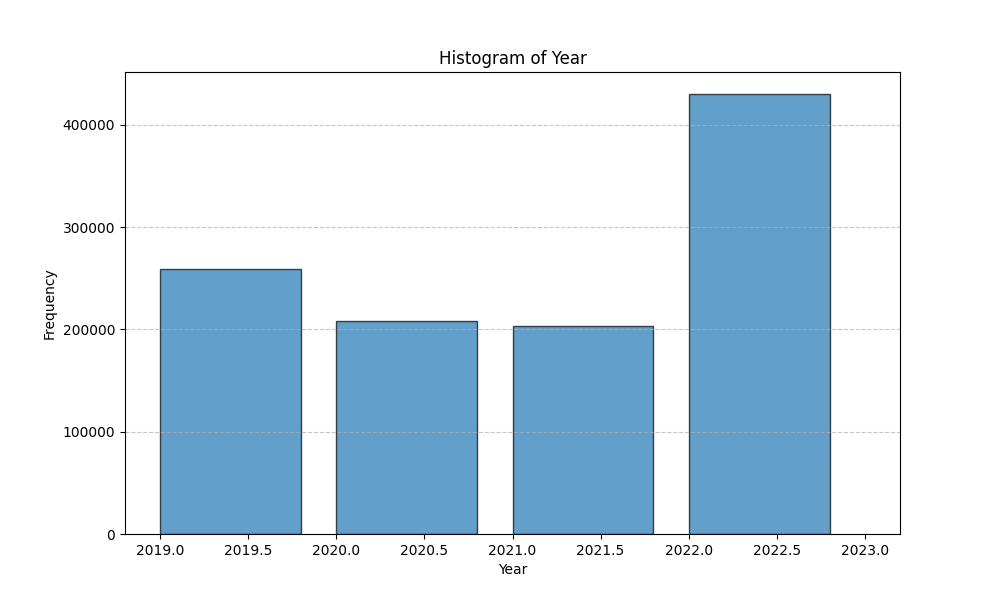
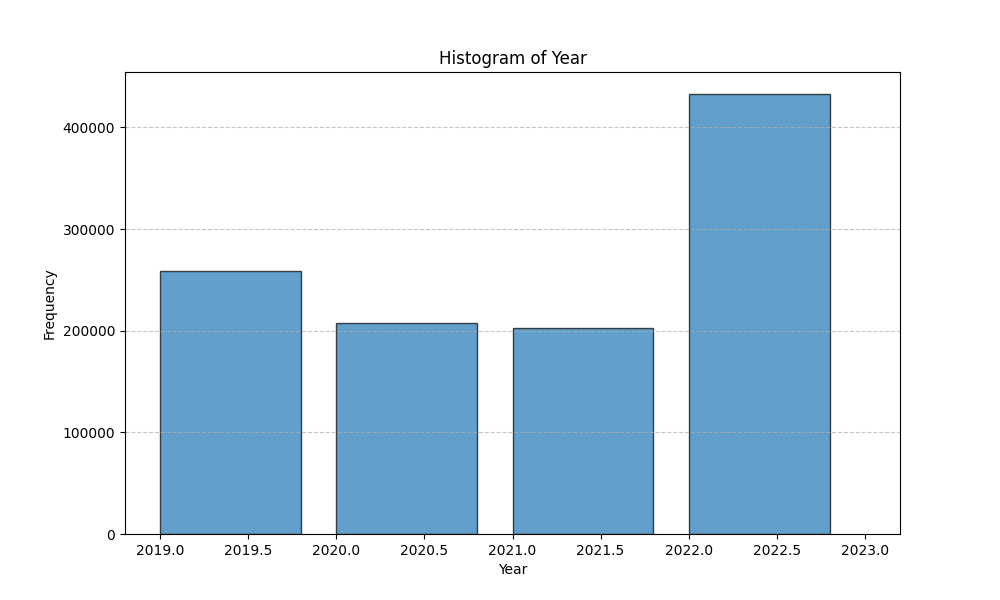
Added project_exploration in detailed

diff --git a/wf_dataprocessing.py b/wf_dataprocessing.py
@@ -3,7 +3,13 @@ import hashlib
 
 
 def preprocess(inputfile):
-    
+    '''Preprocess a CSV file containing crime data, including filtering, cleaning, and saving the result.
+
+    Parameters:
+    inputfile (str): The path to the input CSV file containing crime data.
+
+    Returns:
+    None'''
 
     #READING csv file using pandas
     df=pd.read_csv(inputfile) 
@@ -15,13 +21,13 @@ def preprocess(inputfile):
 
     # Convert the "Date" column to datetime
     df['Date'] = pd.to_datetime(df['Date'])
-    #print(len(df))
+    print("No of records before preprocessing",len(df))
 
     # Filter data for years after 2019
     df = df[df['Date'].dt.year >= 2019]
 
     #to know number of records(data)
-    #print(len(df))
+    
 
     #to show number of null values in our dataset
     #print(df.isnull().sum())
@@ -32,7 +38,7 @@ def preprocess(inputfile):
 
     #without coordinates we cannot analize the data so removing those lines of data
     df = df.dropna(subset=['X Coordinate','Ward','Community Area'])
-
+    print("No of records after preprocessing",len(df))
     # print(len(df))
     # print(df.isnull().sum())
     # Save the preprocessed data to a new CSV file

diff --git a/wf_visualization.py b/wf_visualization.py
@@ -6,6 +6,14 @@ import numpy as np
 
 
 def visualization(processed_file):
+    '''Generate various visualizations and statistics from a processed CSV file containing crime data.
+
+    Parameters:
+    processed_file (str): The path to the processed CSV file.
+
+    Returns:
+    None'''
+    
     data=pd.read_csv(processed_file)
 
     #summary file content
@@ -99,7 +107,7 @@ def visualization(processed_file):
     plt.figure(figsize=(6, 6))
     plt.pie(arrest_counts, labels=arrest_counts.index, autopct='%1.1f%%', startangle=90)
     plt.title('Arrest vs. Non-Arrest')
-    plt.savefig('./visuals/Arrested_.png')
+    plt.savefig('./visuals/Arrested_pie.png')
     plt.legend(['Non-Arrest', 'Arrest'], loc='lower right')
     plt.show()
 
@@ -120,7 +128,7 @@ def visualization(processed_file):
     plt.figure(figsize=(6, 6))
     plt.pie(domestic_counts, labels=domestic_counts.index, autopct='%1.1f%%', startangle=90)
     plt.title('Domestic vs. Non-Domestic Incidents')
-    plt.savefig('./visuals/isdomestic.png')
+    plt.savefig('./visuals/isdomestic_pie.png')
     # Add a legend
     plt.legend(['Non-Domestic', 'Domestic'], loc='lower right')
     plt.show()

diff --git a/project_exploration.md b/project_exploration.md
@@ -11,12 +11,13 @@ Chicago Police Department
 Created Date	November 10, 2020;
 As on 10/15/2023 Updated Date October 13, 2023;
 
-**Dataset Record Count:** 1119596
-Totla entries: Seven million nine hundred eleven thousand five hundred ninety-eight (7911598)
+**Dataset Record Count:** 1102909
+
+Totla entries: seven million nine hundred fourteen thousand four hundred twenty-five (7914425)
 
 The dataset was preprocessed to only include data from 2019 to present, as older data may not be useful for analyzing crime trends.
 
-So the record count from 2019 to present are 1119596.
+So the record count from 2019 to present are 1102909(one million one hundred two thousand nine hundred nine).
 
 
 **Dataset Field Meanings:** 
@@ -65,8 +66,10 @@ Longitude: The geographical longitude of the incident's location, typically repr
 
 Location: A combined field that provides the geographical coordinates (latitude and longitude) in a single format.
 
-**Dataset File Hash(es):** 
-0d3f739d78494e6ca14955cd7e35b77e
+**Dataset File Hash(es):** (Data set may Update in a timely manner so the Hash might chnage while grader/reviewer run)
+Dataset URL: https://data.cityofchicago.org/api/views/ijzp-q8t2/rows.csv?accessType=DOWNLOAD
+
+Hash:dfdd6ca0ff0a10f1b794b0098417ce3e
 
 ## Interpretable Records
 
@@ -104,16 +107,70 @@ The data providing information about a specific criminal incident of a sensitive
 TODO
 
 ## Data Transformation
-### Transformation N
-**Description:** TODO
+### Transformation 1
+**Description:** Data Filtering for years after 2019.
 
-**Soundness Justification:** TODO
+The crime data was filtered to only include data from 2019 to present, as older data may not be useful for analyzing crime trends.
 
-(duplicate above as many times as needed; remove this line when done)
+**Soundness Justification:** 
+Crime trends can change over time, and older data may not be representative of current trends. For example, the types of crimes that are most common, the locations where crimes occur, and the demographics of crime victims and perpetrators can all change over time. By focusing on recent crime data, we can get a more accurate picture of current crime trends and identify areas where crime prevention and intervention efforts are most needed.
 
+### Transformation 2
+**Description:** Updates missing location description rows as "Unknown"
+
+This was done to minimize the loss of data, as the location description is not essential for all types of crime analysis
+
+**Soundness Justification:** 
+ Updating missing location description rows as "Unknown" allows us to include more data in our analysis, even if the data is not perfect. This is important because crime data is often incomplete, and having more data can lead to more accurate and informative results. ans also  it allows us to use the data to answer questions about crime trends and patterns, even if we do not have complete information about every crime.
+
+### Transformation 3
+**Description:** Removes rows with missing coordinates.
+
+The exact location of a crime is essential for many types of crime analysis, such as identifying crime hotspots, tracking the movement of crime over time, and analyzing the spatial distribution of crime. Without coordinates, it is impossible to do any of these things.
+
+**Soundness Justification:** 
+if crimes in certain neighborhoods or communities are more likely to have missing coordinates, this could lead to a biased view of crime patterns in the city. By removing rows with missing coordinates, we can help to reduce the risk of bias in our analysis.
+In addition, the fact that the missing coordinates are spread across all districts, community areas, and all years suggests that there is no systematic reason for the missing data. This makes it difficult to impute the missing values, and it also raises the possibility that the missing data is biased.
 
 ## Visualization
-### Visual N
-**Analysis:** TODO
+### Visual 1 : 
+Distribution of Crime Types (Log Scale)
+**Analysis:** 
+This bar plot shows the distribution of different crime types on a logarithmic scale. As the difference between different crime types is huge so took log scale.
 
-(duplicate above as many times as needed; remove this line when done)
+### Visual 2 : 
+Crime Trends Over Time on a Weekly Basis
+**Analysis:** 
+The line plot of weekly crime trends provides insight into how the number of crimes changes over time. It might show weekly patterns, such as fluctuations in crime rates during weekends.
+
+### Visual 3 : 
+Crime Trends Over Time on a Monthly Basis
+**Analysis:** 
+Similar to the weekly plot, this monthly plot highlights the broader trends in crime rates over time. It can help identify long-term patterns, chnages in crime over months.
+
+### Visual 4 : 
+Arrest vs. Non-Arrest (Pie Chart)
+
+**Analysis:** 
+This pie chart illustrates the proportion of crimes that resulted in arrests versus those that did not.
+i have implemented the same in bars aswell i liked the pie chart so including this aswell.
+
+### Visual 5 : 
+Arrest vs. Non-Arrest (Bar Chart)
+**Analysis:** 
+This is same as above but in bars. The blue and red bars represent non-arrested and arrested incidents, respectively.
+
+### Visual 6 : 
+Domestic vs. Non-Domestic Incidents (Pie Chart)
+**Analysis:** 
+This pie chart shows the distribution of domestic and non-domestic incidents. Pie charts helps to show how much percentage of crime are domestic/non-domestic so implemented pie rather than bars.
+
+### Visual 7 : 
+Histogram of Year
+**Analysis:** 
+The histogram of years provides an overview of the distribution of crimes across different years. It may reveal trends over the years, such as increasing or decreasing crime rates.
+
+### Visual 8 : 
+Scatter Plots of Quantitative Features
+**Analysis:** 
+These scatter plots visualize the relationships between pairs of quantitative features (e.g., 'Beat' vs. 'Ward'). They can help identify any correlations or patterns between these features.(there are six scatter plots)
